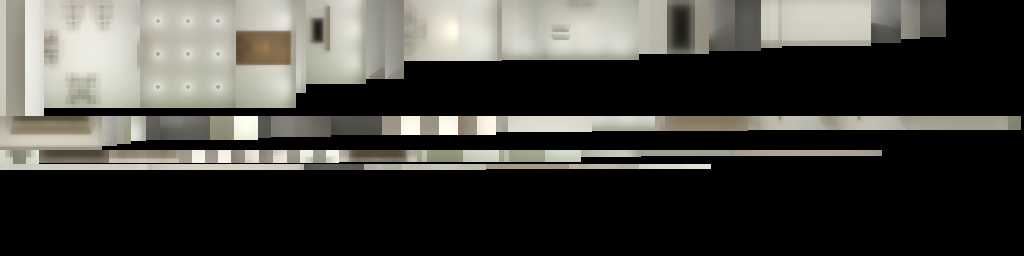
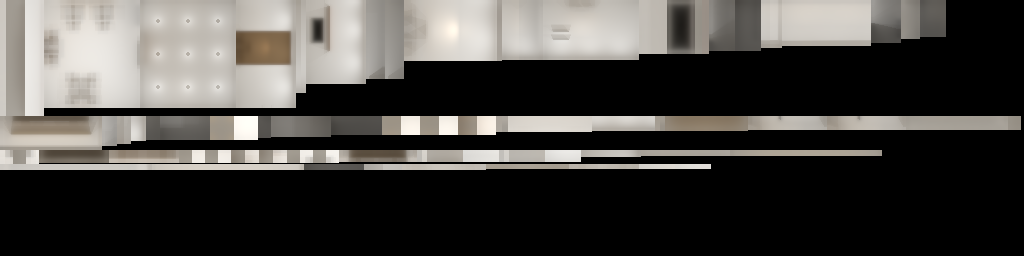
le Fleur Gastraum: Wände weiß (Kunde hat gestrichen), weniger Verzerrung am Handy
Claude-Session: https://claude.ai/code/session_01LTkqe2qEJCCsMp6yjQTc2F

diff --git a/lefleur/matcha/room.js b/lefleur/matcha/room.js
@@ -806,7 +806,7 @@ function setLook(m, jump = true) {
   LOOK = m; LM = LMS[m]; VIEWS = m === 'matcha' ? VIEWS_M : VIEWS_L;
   for (const mt of BAKED) { mt.lightMap = LM.tex; mt.lightMapIntensity = LM.LMI; }
   const mt = m === 'matcha';
-  MAT.paintC.color.copy(mt ? C_GREEN : C_WALL); MAT.archIn.color.copy(mt ? C_GREEN2 : C_WALL); MAT.reveal.color.copy(mt ? C_GREEN2 : C_WALL);
+  MAT.paintC.color.copy(C_WALL); MAT.archIn.color.copy(C_WALL); MAT.reveal.color.copy(C_WALL);   // Wände bleiben weiß (Kunde hat schon gestrichen)
   FURN.visible = mt; document.body.classList.toggle('matcha', mt);
   document.querySelectorAll('#look button').forEach(b => b.classList.toggle('on', b.dataset.l === m));
   document.getElementById('sub').textContent = mt ? 'Gastraum · Matcha-Entwurf' : 'Raum jetzt';
@@ -875,7 +875,7 @@ const dims = [[W / 2, 0.02, -0.05, fmt(W)], [W / 2, 0.02, L + 0.05, fmt(W)], [-0
 // ------------------------------------------------------------------ Schleife
 function resize() {                                         // Hochformat: genug Breite sehen (waagrecht ca. 64°)
   const w = innerWidth, h = innerHeight, a = w / h; renderer.setSize(w, h, false); if (typeof composer !== 'undefined') { composer.setPixelRatio(renderer.getPixelRatio()); composer.setSize(w, h); } camera.aspect = a;
-  camera.fov = Math.min(100, Math.max(64, 2 * Math.atan(Math.tan(32 * Math.PI / 180) / a) * 180 / Math.PI)); camera.updateProjectionMatrix(); req();
+  camera.fov = Math.min(86, Math.max(64, 2 * Math.atan(Math.tan(32 * Math.PI / 180) / a) * 180 / Math.PI)); camera.updateProjectionMatrix(); req();   // Hochformat: max. 86° (weniger Verzerrung)
 }
 // ------------------------------------------------------------------ Nachbearbeitung (realistischer: Kontaktschatten, Leuchten, Kamera-Look)
 const DPR = Math.min(devicePixelRatio || 1, 2);

diff --git a/lefleur/matcha/index.html b/lefleur/matcha/index.html
@@ -85,6 +85,6 @@ body.matcha.haslist #listBtn{display:block}
 <div id="joy"><i></i></div>
 <div id="load">Raum wird geladen …</div>
 <script type="importmap">{"imports":{"three":"https://cdn.jsdelivr.net/npm/three@0.170.0/build/three.module.min.js","three/addons/":"https://cdn.jsdelivr.net/npm/three@0.170.0/examples/jsm/"}}</script>
-<script type="module" src="room.js?v=20261124m7"></script>
+<script type="module" src="room.js?v=20261124m8"></script>
 </body>
 </html>
